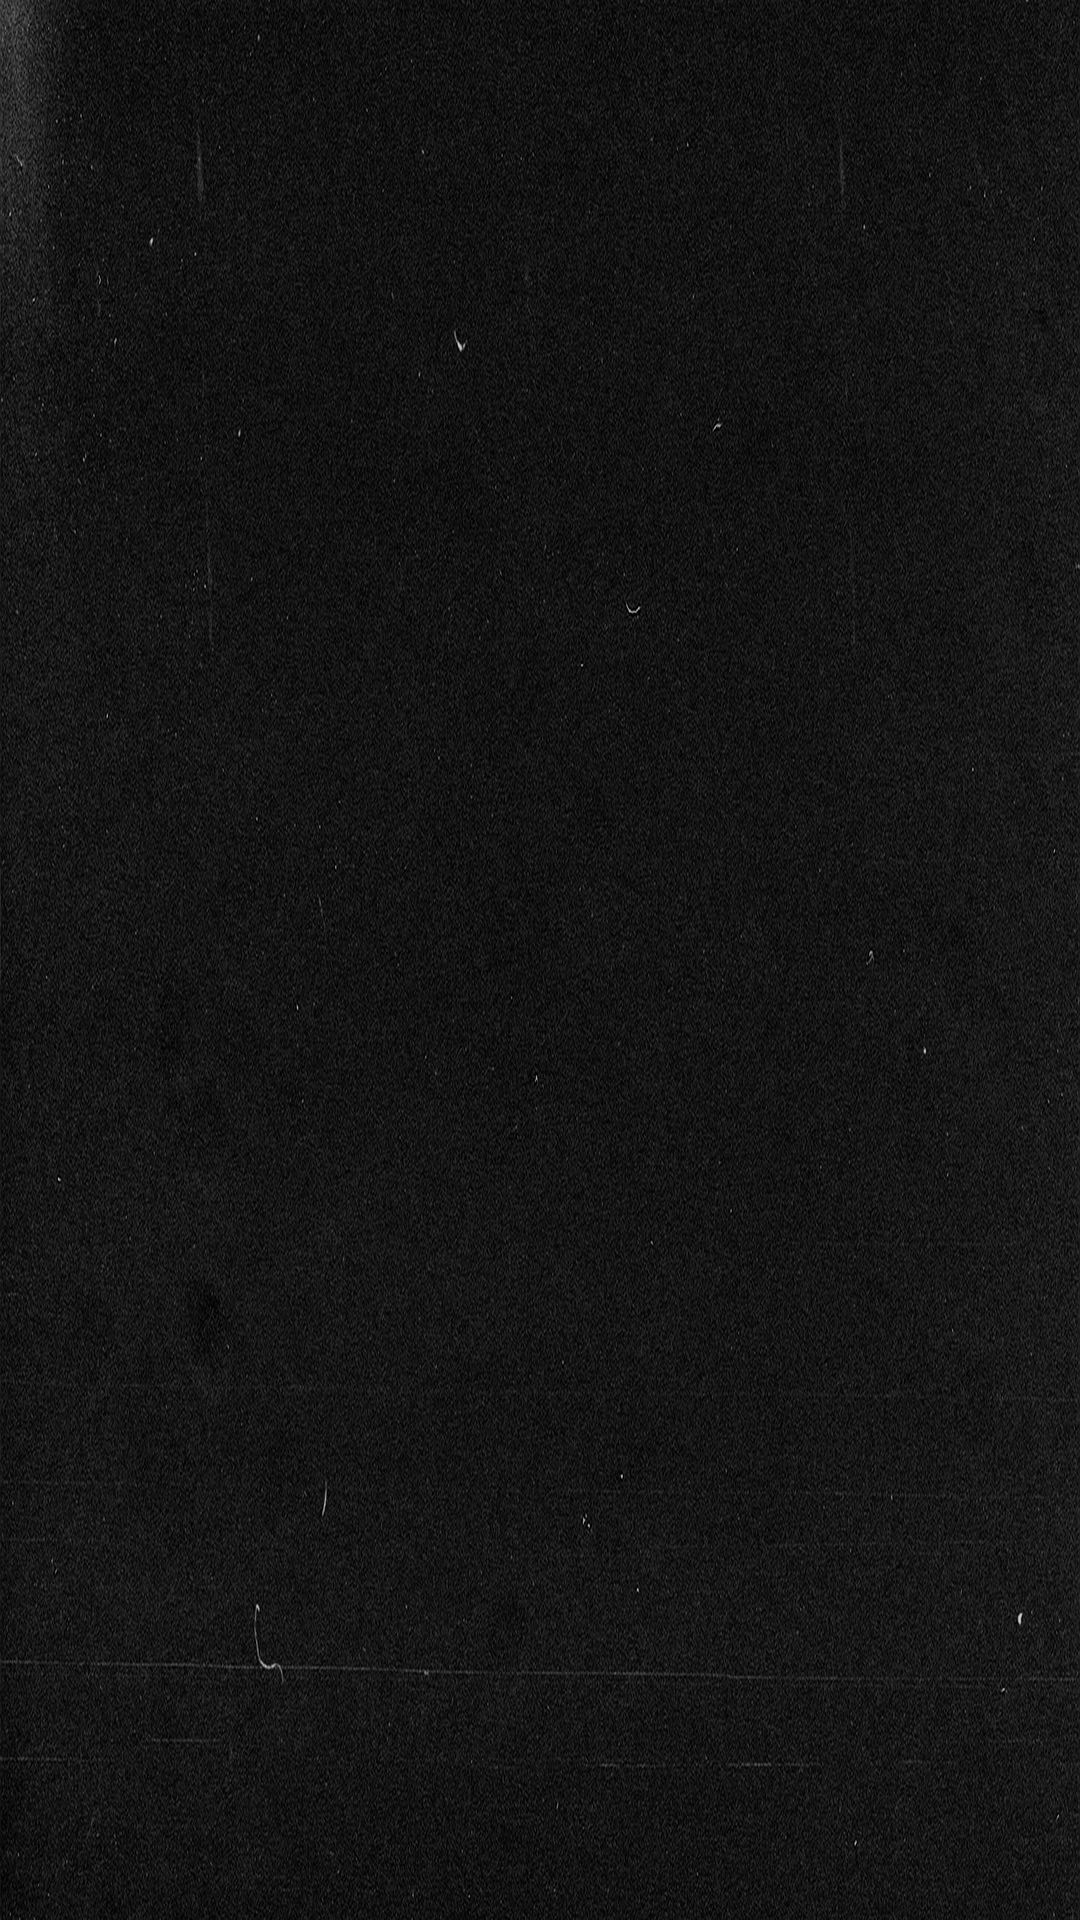
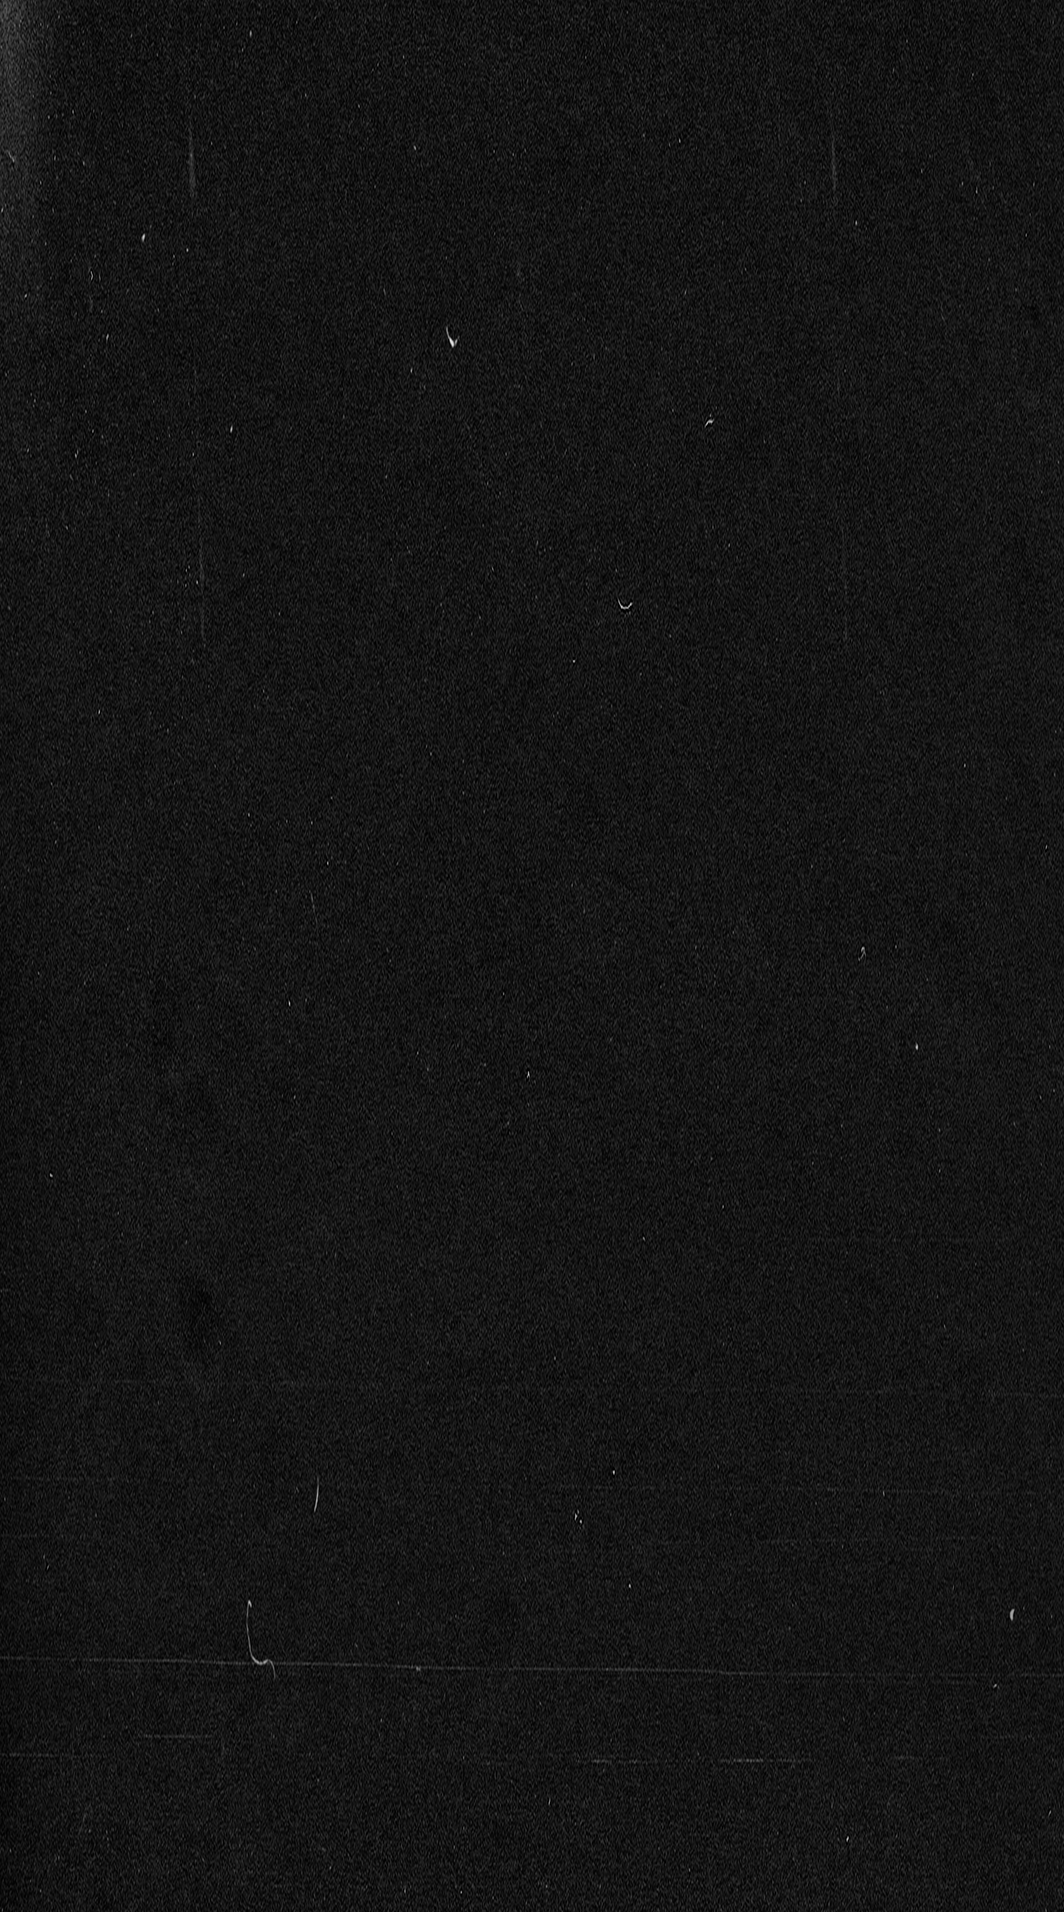
Smooth the card hand-over and clean up stray lines
When the next card slides over, the title no longer tweens its font size
(which re-wrapped two-line titles to one mid-scroll and jolted the copy
under it): it scales and fades toward the sliver while a one-line copy,
now larger, fades in there, and the copy and drawing fade out with it.

Title reveals are measured on the non-sticky step and no longer reverse,
so titles stay visible when scrolling back up. Drawings start empty (no
ghost preview), shapes stay hidden until their step begins, and their
fill fades in so covered lines dissolve instead of vanishing. The grain
texture is cropped and flattened so its tiles no longer show seams. The
first card gets the same gap above it as the stack's side gutter.

diff --git a/js/main.js b/js/main.js
@@ -280,53 +280,51 @@
         duration: 0.6,
         ease: 'power3.out',
         stagger: 0.06,
+        // measured on the (non-sticky) step: a sticky card's own box moves with the scroll, so its
+        // start would be wrong after any refresh made mid-stack. Plays once and stays: reversing
+        // it would blank titles that are still on screen when scrolling back up
         scrollTrigger: {
-          trigger: item,
+          trigger: item.closest('.stack__step') || item,
           start: 'top 55%',
-          toggleActions: 'play none none reverse'
+          toggleActions: 'play none none none'
         }
       });
     });
   }
 
-  /* ---------- each card's own title shrinks into the sliver strip that keeps peeking out once
-     the next card stacks over it, instead of a separate duplicate label sitting there. Scrubbed
-     to the exact scroll range right before the next card's sticky pin engages, so the title lands
-     at its shrunk size/position at the same instant the next card starts covering everything else —
-     no jump. Padding-top animates to whatever leaves the shrunk title vertically centered in the
-     sliver (not flush to its top), using the h3's own line-height ratio so it's exact at any size.
-     Skipped on narrow screens: the sliver there is only ~22px tall, too tight for a legible word. */
+  /* ---------- as the next card slides over, the card hands its title over to the sliver strip
+     that keeps peeking out. Nothing reflows: the big title only scales down toward the strip and
+     fades (a font-size tween would re-wrap "FLYERS | VIDEOS" from two lines to one mid-scroll and
+     jolt everything under it), the copy and drawing fade with it, and a one-line copy of the title
+     fades in centred in the strip. Scrubbed over the last stretch before the next card's pin
+     engages. Skipped on narrow screens: the sliver there is only ~22px, too tight for a word. */
   function setupStackTitleShrink() {
     var items = [].slice.call(document.querySelectorAll('.stack__item'));
     if (items.length < 2 || reduceMotion || !hasGSAP || typeof ScrollTrigger === 'undefined') return;
     if (window.matchMedia('(max-width: 700px)').matches) return;
 
-    var TRANSITION_PX = 260; // scroll distance the shrink is scrubbed over
+    var TRANSITION_PX = 260; // scroll distance the hand-over is scrubbed over
 
     for (var i = 0; i < items.length - 1; i++) {
       (function (item, next) {
         var shape = item.querySelector('.stack__shape');
-        var h3 = shape.querySelector('h3');
+        var h3 = shape && shape.querySelector('h3');
         var step = next.closest('.stack__step');
-        if (!shape || !h3 || !step) return;
+        if (!h3 || !step) return;
 
-        var thisTop = parseFloat(getComputedStyle(item).top);
         var nextTop = parseFloat(getComputedStyle(next).top);
-        var sliverH = nextTop - thisTop; // how tall the peeking strip actually is (56px desktop)
-        var cs = getComputedStyle(h3);
-        var lineHeightRatio = parseFloat(cs.lineHeight) / parseFloat(cs.fontSize); // unitless, same at any font-size
-        var targetFontSize = Math.max(14, sliverH * 0.42);
-        var targetPaddingTop = Math.max(0, (sliverH - targetFontSize * lineHeightRatio) / 2);
+        var sliverH = nextTop - parseFloat(getComputedStyle(item).top);
+        var peekSize = Math.max(14, sliverH * 0.62);
 
-        // resting values come from the stylesheet (they change with the viewport), read with the
-        // tween's own inline value cleared, and re-read on every refresh
-        function atRest(el, prop) {
-          var keep = el.style[prop];
-          el.style[prop] = '';
-          var v = getComputedStyle(el)[prop];
-          el.style[prop] = keep;
-          return v;
-        }
+        var peek = document.createElement('span');
+        peek.className = 'stack__peek';
+        peek.setAttribute('aria-hidden', 'true');
+        peek.textContent = h3.textContent;
+        peek.style.height = sliverH + 'px';
+        peek.style.fontSize = peekSize + 'px';
+        shape.appendChild(peek);
+
+        var fades = [shape.querySelector('.stack__expand'), shape.querySelector('.stack__art')].filter(Boolean);
 
         gsap.timeline({
           scrollTrigger: {
@@ -334,15 +332,21 @@
             start: 'top top+=' + (nextTop + TRANSITION_PX),
             end: 'top top+=' + nextTop,
             scrub: true,
-            invalidateOnRefresh: true
-          }
+            invalidateOnRefresh: true // the title's size follows the column width
+          },
+          defaults: { ease: 'none' }
         })
-          .fromTo(shape, { paddingTop: function () { return atRest(shape, 'paddingTop'); } },
-            { paddingTop: targetPaddingTop, ease: 'none', immediateRender: false }, 0)
-          .fromTo(h3, { fontSize: function () { return atRest(h3, 'fontSize'); } },
-            { fontSize: targetFontSize, ease: 'none', immediateRender: false }, 0)
-          // the drawing fills the card up to its top edge — fade it so only the title sits in the strip
-          .to(shape.querySelector('.stack__art'), { opacity: 0, ease: 'none' }, 0);
+          .fromTo(h3, { scale: 1, x: 0, y: 0 }, {
+            scale: function () { return peekSize / parseFloat(getComputedStyle(h3).fontSize); },
+            x: function () { return peek.offsetLeft - h3.offsetLeft; },
+            y: function () { return (sliverH - peekSize) / 2 - h3.offsetTop; },
+            transformOrigin: '0 0',
+            duration: 1,
+            immediateRender: false
+          }, 0)
+          .fromTo(h3, { opacity: 1 }, { opacity: 0, duration: 0.45, immediateRender: false }, 0.15)
+          .fromTo(fades, { opacity: 1 }, { opacity: 0, duration: 0.5, immediateRender: false }, 0)
+          .fromTo(peek, { opacity: 0 }, { opacity: 1, duration: 0.45, immediateRender: false }, 0.5);
       })(items[i], items[i + 1]);
     }
   }
@@ -383,12 +387,15 @@
           var len = el.getTotalLength();
           var o = { p: 0 };
           function paint() {
+            // not started = not rendered: getTotalLength() runs a hair short on ellipses and
+            // curves, so a zero-length dash still leaves a speck at the path's start
+            el.style.visibility = o.p > 0 ? 'visible' : 'hidden';
             el.style.fillOpacity = Math.min(1, Math.max(0, (o.p - 0.15) / 0.85));
             if (o.p >= 0.999) {
               el.style.strokeDasharray = 'none';
               el.style.strokeDashoffset = '0';
             } else {
-              el.style.strokeDasharray = len + ' ' + len;
+              el.style.strokeDasharray = len + ' ' + len * 2;
               el.style.strokeDashoffset = len * (1 - o.p);
             }
           }
@@ -543,8 +550,6 @@
   function createWriter(box) {
     var para = box && box.querySelector('.stack__why');
     if (!para) return null;
-    var shape = box.closest('.stack__shape');
-    var h3 = shape && shape.querySelector('h3');
     var NS = 'http://www.w3.org/2000/svg';
     var words = readWords(para);
     var shaped = null;
@@ -554,15 +559,8 @@
     var progress = 0;
 
     function layout() {
-      // measure the box at rest: the title-shrink scrub may have left inline sizes on the card
-      var keepPad = shape.style.paddingTop;
-      var keepFont = h3 ? h3.style.fontSize : '';
-      shape.style.paddingTop = '';
-      if (h3) h3.style.fontSize = '';
       var W = box.clientWidth;
       var H = box.clientHeight;
-      shape.style.paddingTop = keepPad;
-      if (h3) h3.style.fontSize = keepFont;
       if (W < 40 || H < 20) return;
 
       var s = fitSize(shaped, W, H);

diff --git a/css/style.css b/css/style.css
@@ -614,7 +614,9 @@ body.menu-open .btn--nav{opacity:0;pointer-events:none;}
 /* ============================================
    SERVICES — sticky stack
    ============================================ */
-.services{position:relative;z-index:2;background:var(--c-black);}
+/* gap above the first card matches the stack's side gutter (.stack__step left/right) */
+.services{position:relative;z-index:2;background:var(--c-black);padding-top:var(--space-3);}
+@media (max-width:600px){.services{padding-top:var(--space-1);}}
 
 /* Each card sits in its own absolutely-positioned .stack__step instead of sharing one flow
    container. A shared container makes cards release their sticky lock at DIFFERENT scrollY
@@ -768,6 +770,24 @@ body.menu-open .btn--nav{opacity:0;pointer-events:none;}
 .stack__item--maroon h3{--longest:7.8;}  /* INMOBILIARIO */
 .stack__item--cyan h3{--longest:4.3;}    /* DISEÑO */
 .stack__cta{margin-top:var(--space-4);flex-shrink:0;}
+/* one-line title shown in the sliver once the next card covers this one (built by main.js) */
+.stack__peek{
+  position:absolute;
+  top:0;
+  left:var(--space-4);
+  right:var(--space-4);
+  display:flex;
+  align-items:center;
+  font-family:var(--font-display);
+  font-weight:900;
+  text-transform:uppercase;
+  letter-spacing:-.02em;
+  line-height:1;
+  white-space:nowrap;
+  overflow:hidden;
+  opacity:0;
+  pointer-events:none;
+}
 .stack__item--cyan .btn{border-color:var(--c-black);color:var(--c-black);}
 .stack__item--cyan .btn:hover{background:var(--c-black);color:var(--c-cyan);}
 
